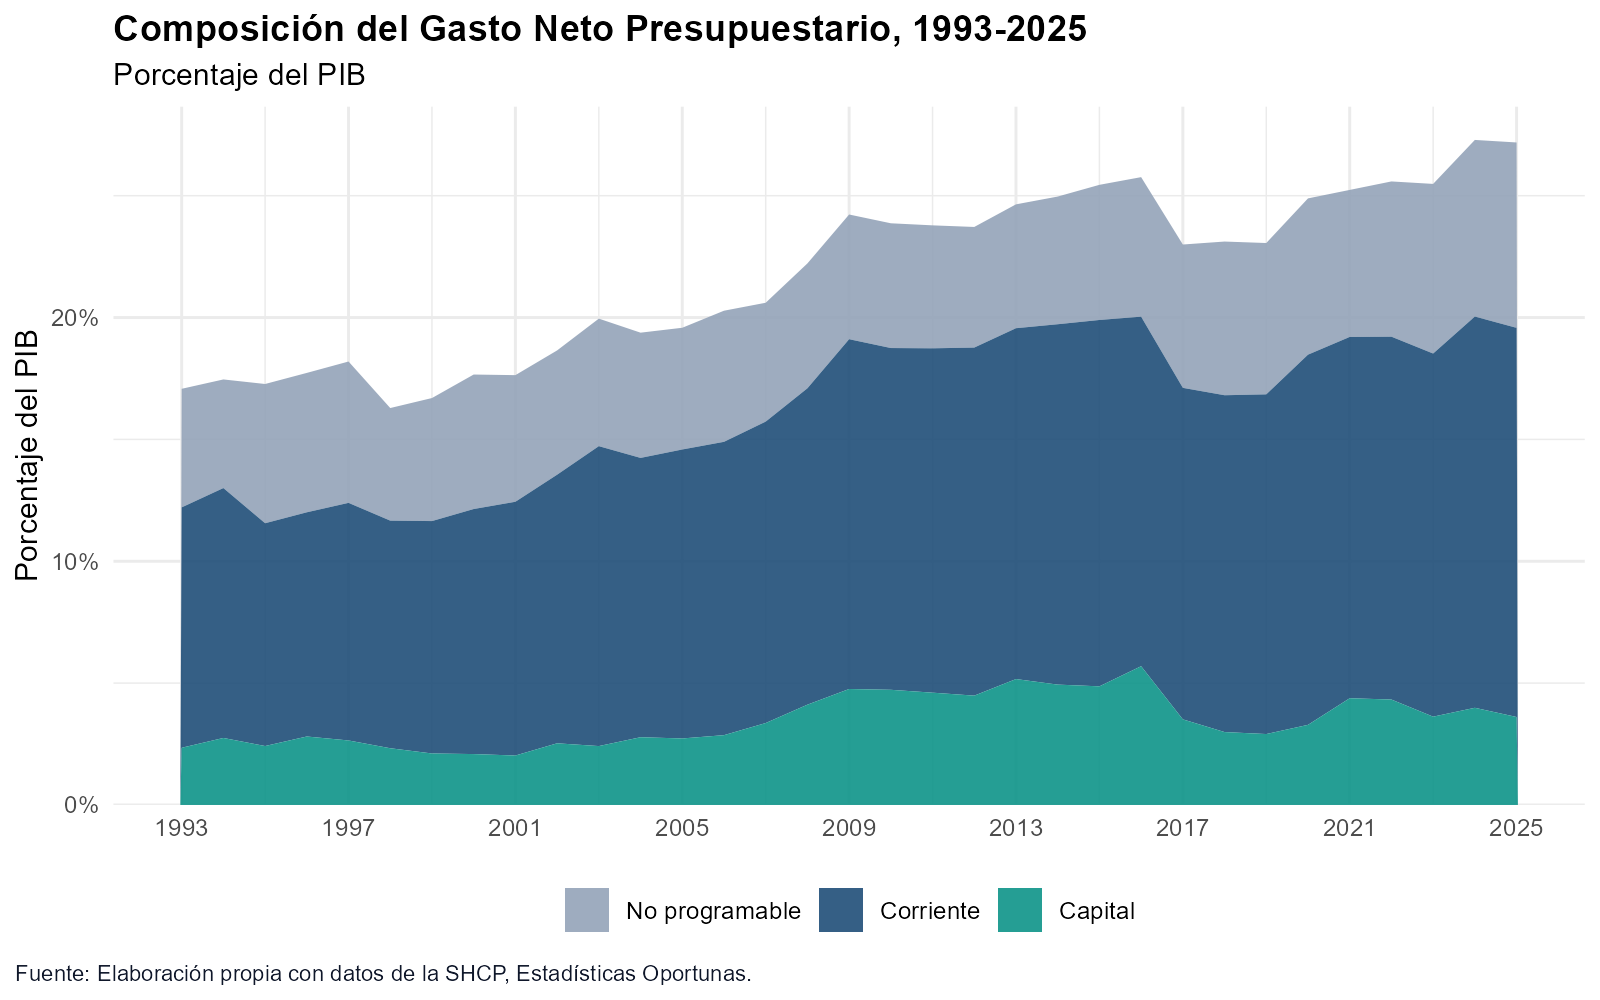
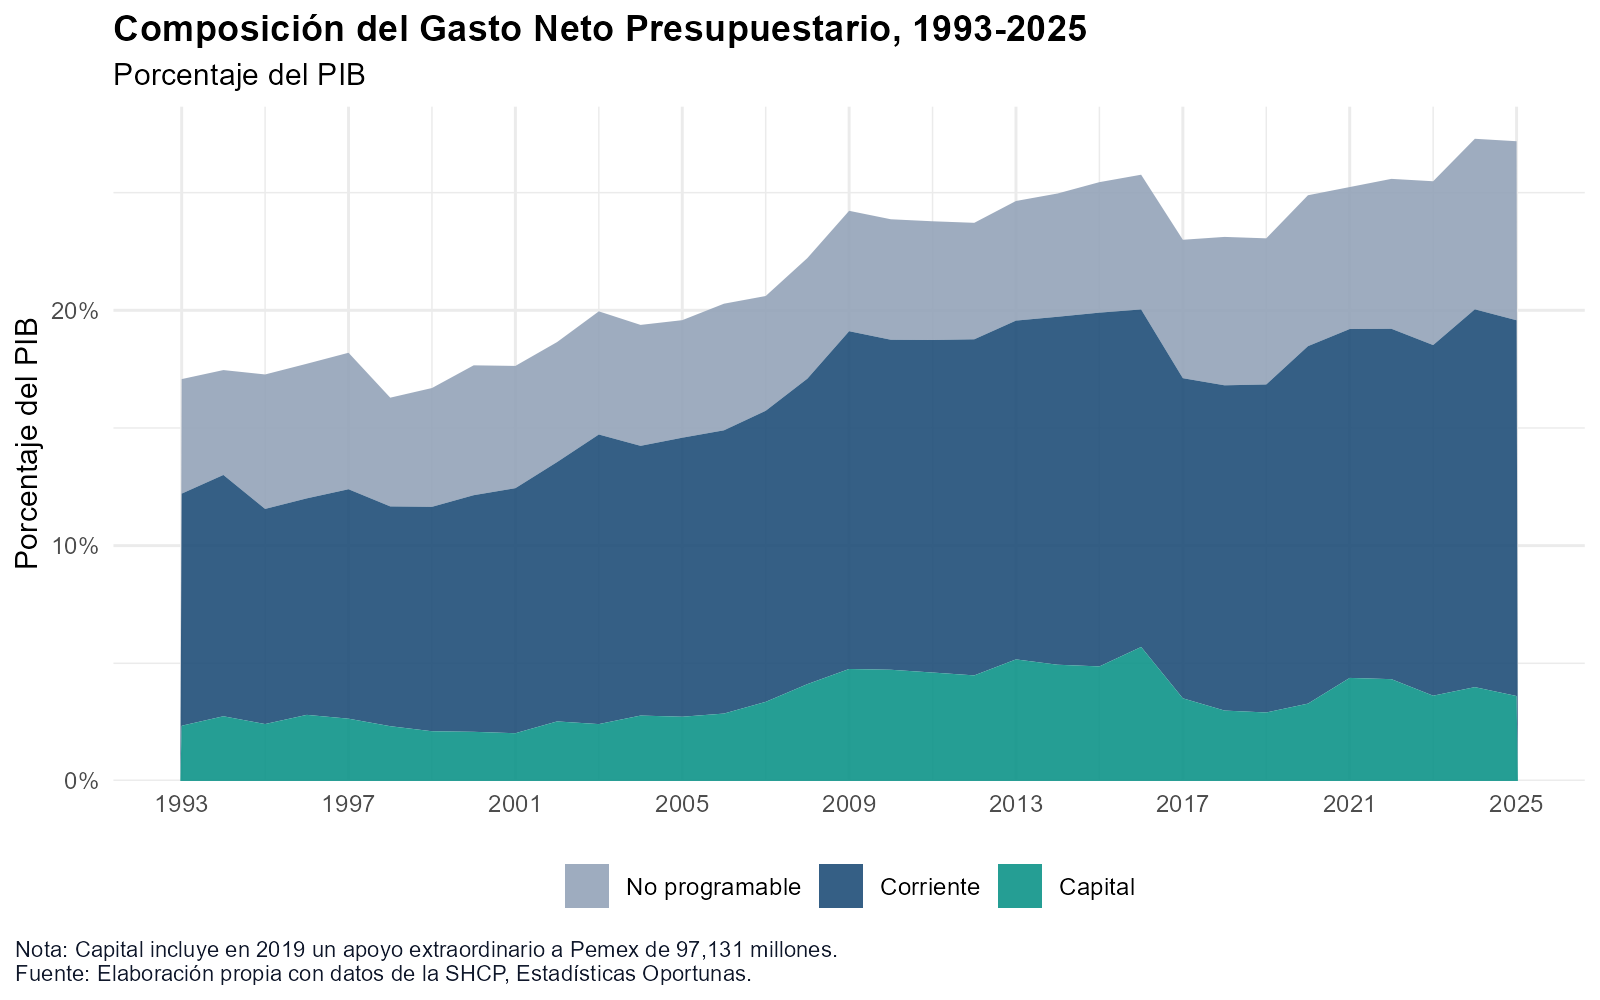
feat: agrega nota sobre Capital en la gráfica 3 del gasto

diff --git a/analysis/analisis_finanzas_publicas_mexico.md b/analysis/analisis_finanzas_publicas_mexico.md
@@ -1,7 +1,7 @@
 Análisis finanzas públicas de México, 1993-2025
 ================
 Jose Guadalupe Castañeda Soto
-2026-11-06
+2026-11-07
 
 Las finanzas públicas comprenden el conjunto de ingresos, gastos y deuda
 del sector público, con el que el Estado cumple sus objetivos y
@@ -637,7 +637,7 @@ grafica_gasto <- ggplot(gasto_largo, aes(x = anio, y = pct_pib)) +
     x = NULL,
     y = "Porcentaje del PIB",
     fill = NULL,
-    caption = "Fuente: Elaboración propia con datos de la SHCP, Estadísticas Oportunas."
+    caption = "Nota: Capital incluye en 2019 un apoyo extraordinario a Pemex de 97,131 millones. \nFuente: Elaboración propia con datos de la SHCP, Estadísticas Oportunas."
   ) +
   theme_minimal() +
   theme(
